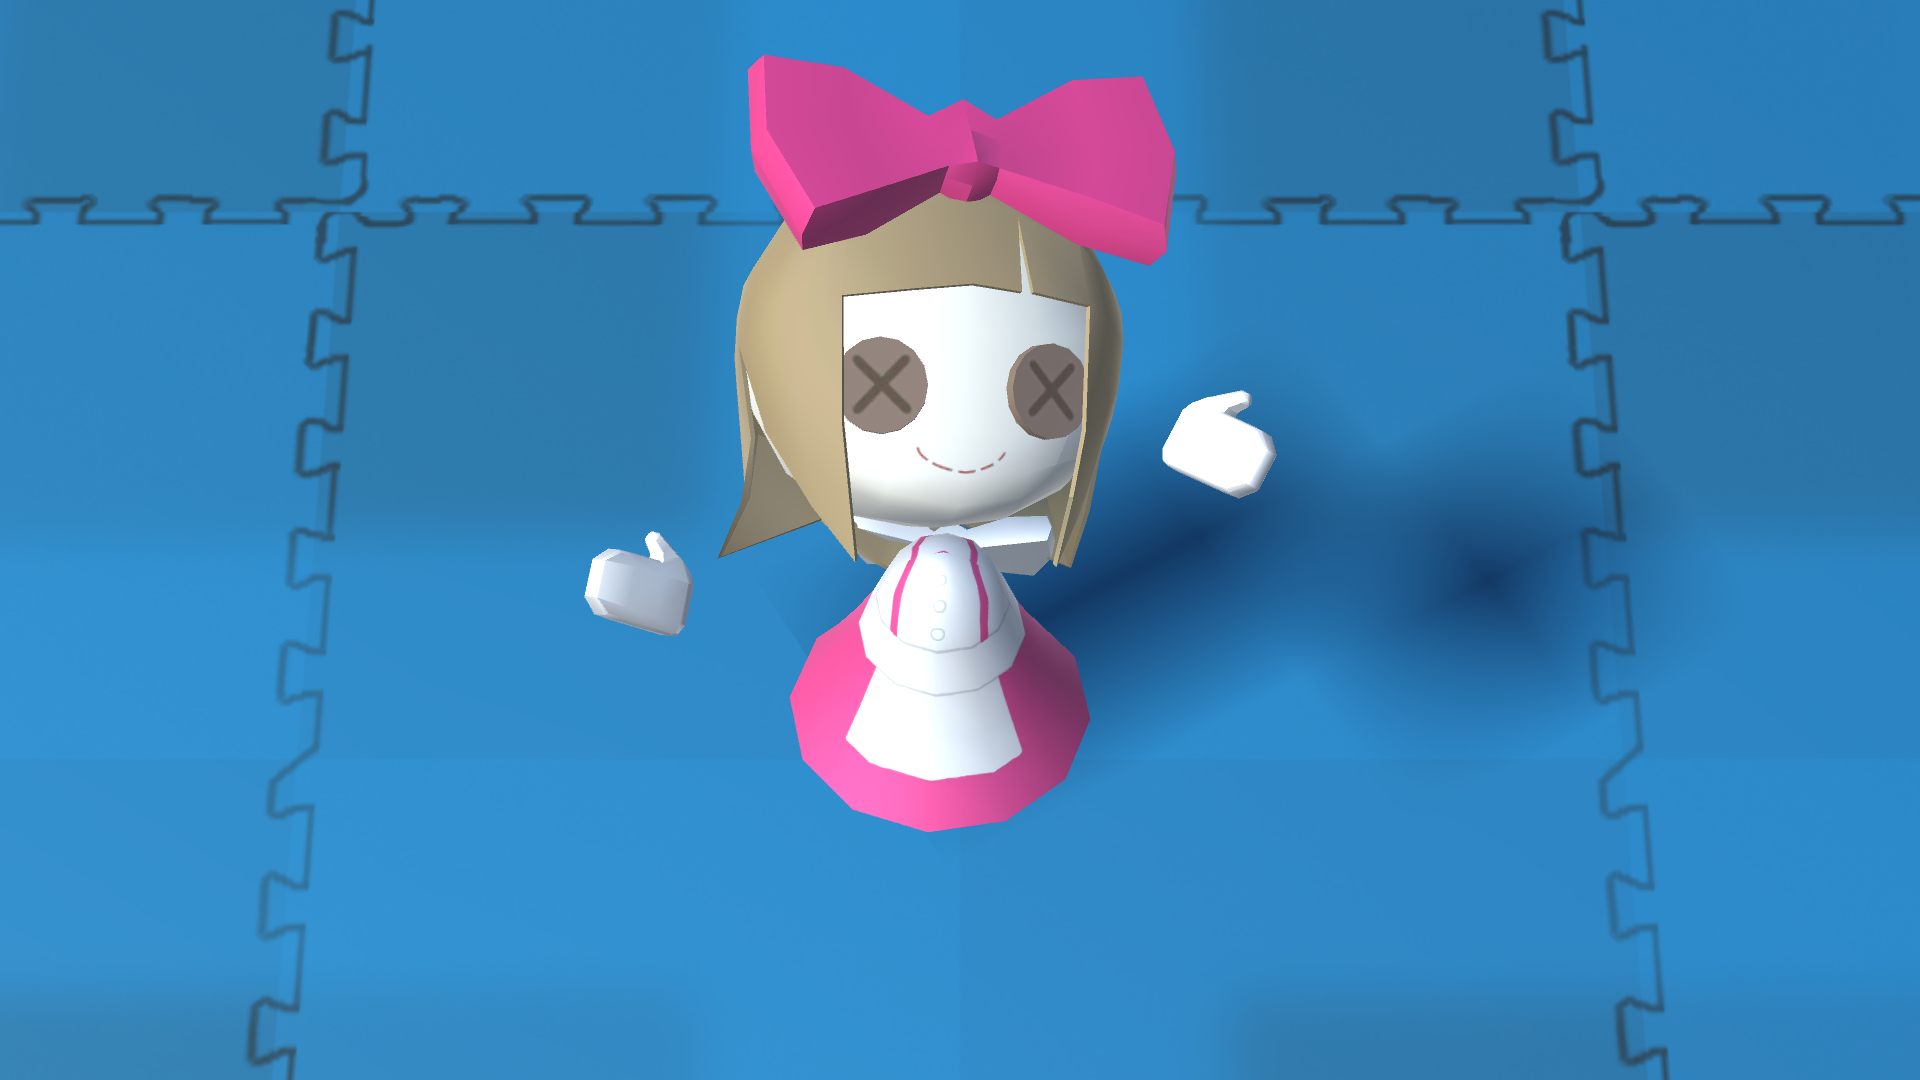
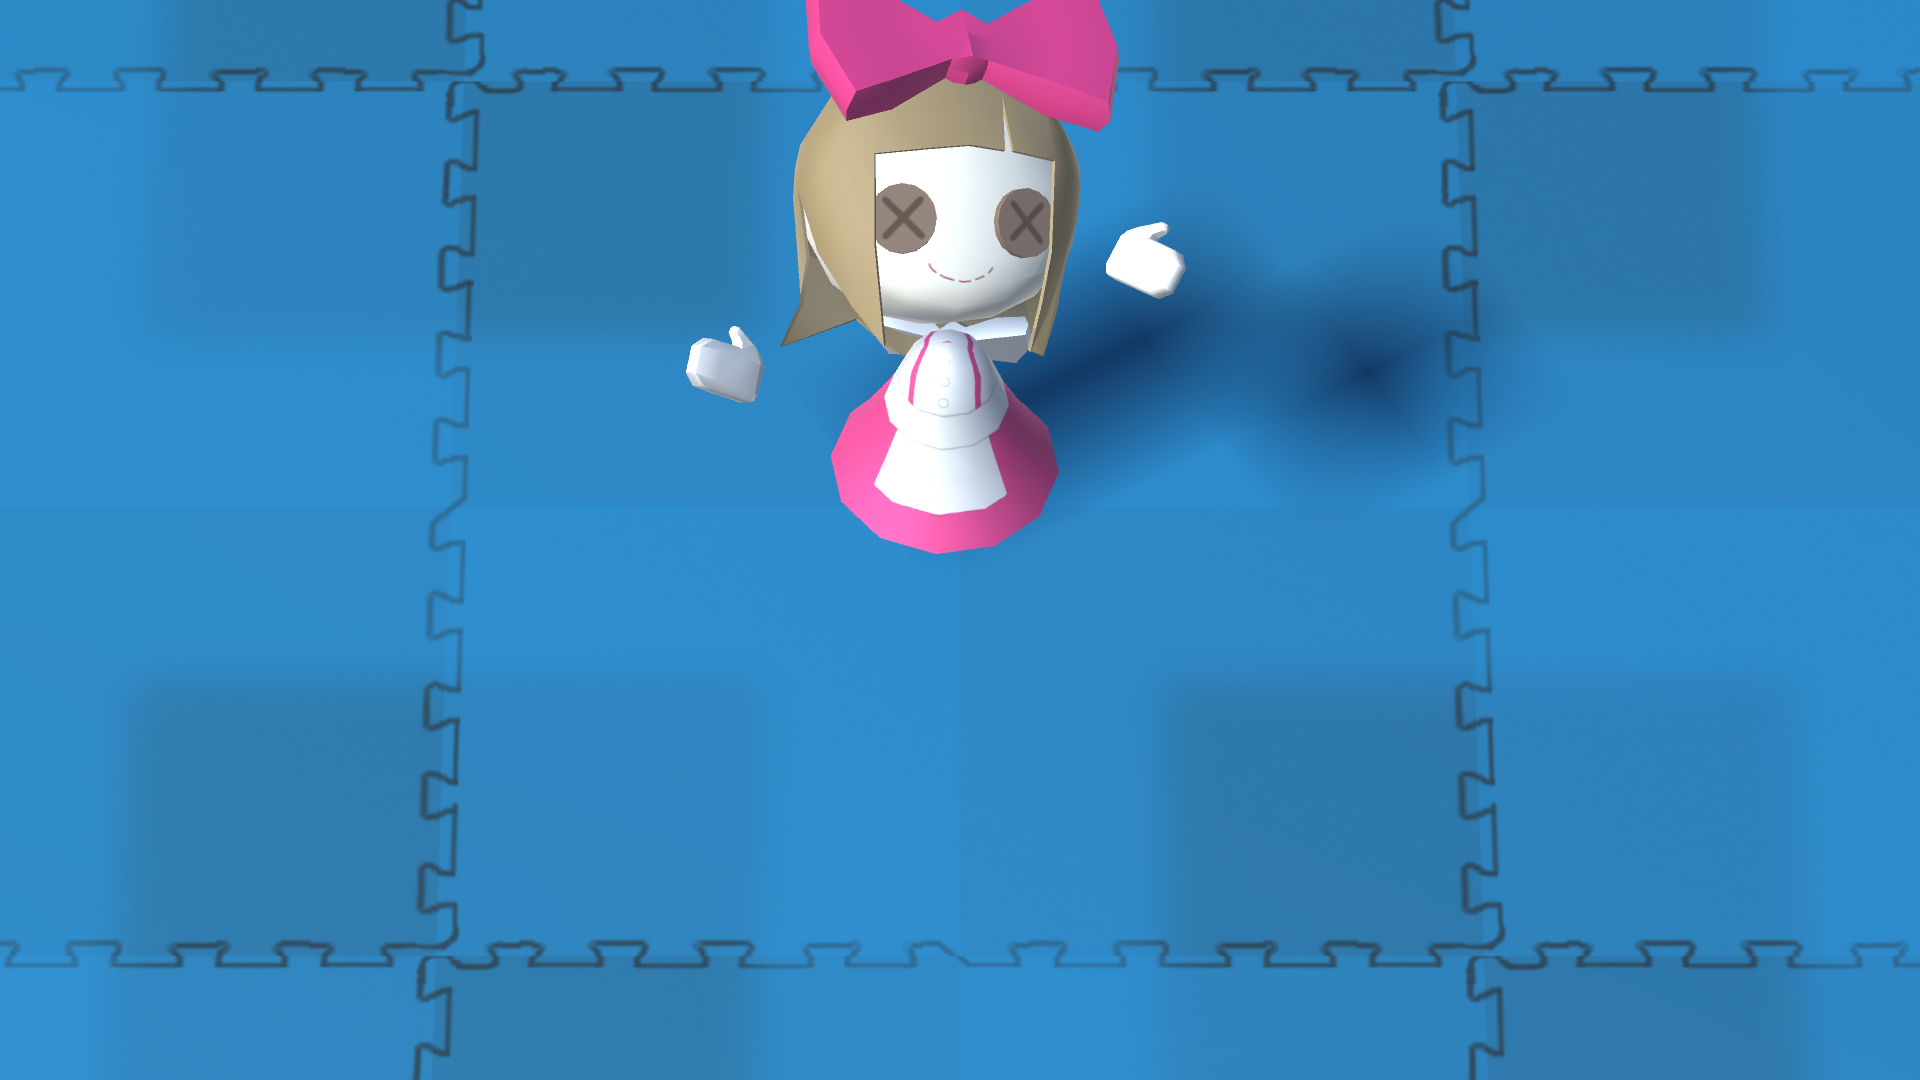
new Script [zoomIN,zoomOut]

diff --git a/AgonyCube/Assets/Scripts/MMDtest/ZoomCamera.cs b/AgonyCube/Assets/Scripts/MMDtest/ZoomCamera.cs
@@ -1,0 +1,40 @@
+using System.Collections;
+using System.Collections.Generic;
+using UnityEngine;
+
+public class ZoomCamera : MonoBehaviour
+{
+
+    private Camera cam;
+    private float zoom;
+    private float view;
+    float startTime;
+    void Start()
+    {
+        cam = GetComponent<Camera>();
+        view = cam.fieldOfView;
+    }
+
+
+    void Update()
+    {
+        cam.fieldOfView = view + zoom;
+
+        if (Time.time - startTime > 5f)
+        {
+
+
+            //上を押すと、zoomの数値が減少
+            if (Input.GetKey(KeyCode.UpArrow))
+            {
+
+                zoom -= 0.5f;
+                //下を押すと、zoomの数値が増加
+            }
+            else if (Input.GetKey(KeyCode.DownArrow))
+            {
+                zoom += 0.5f;
+            }
+        }
+    }
+}
